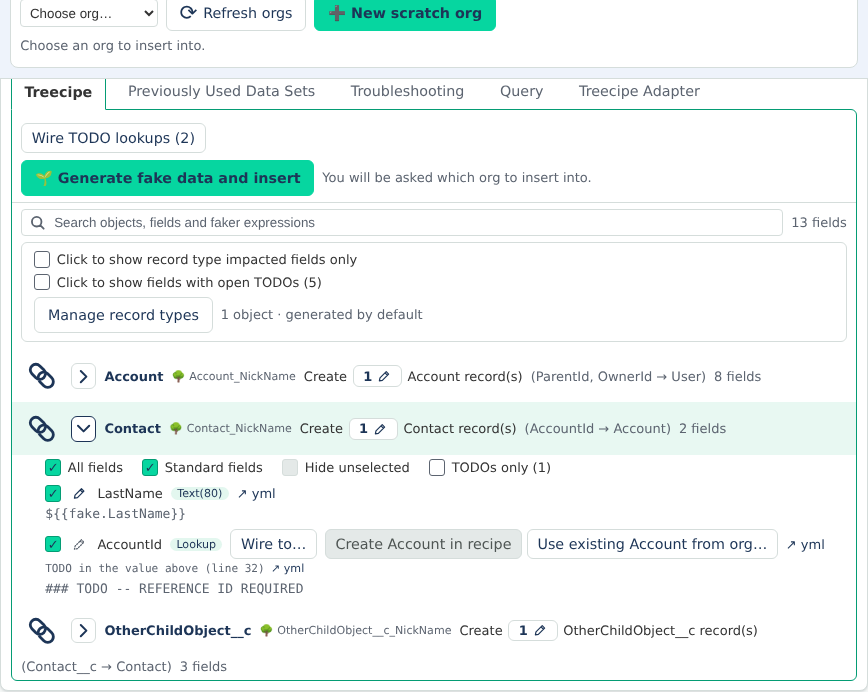
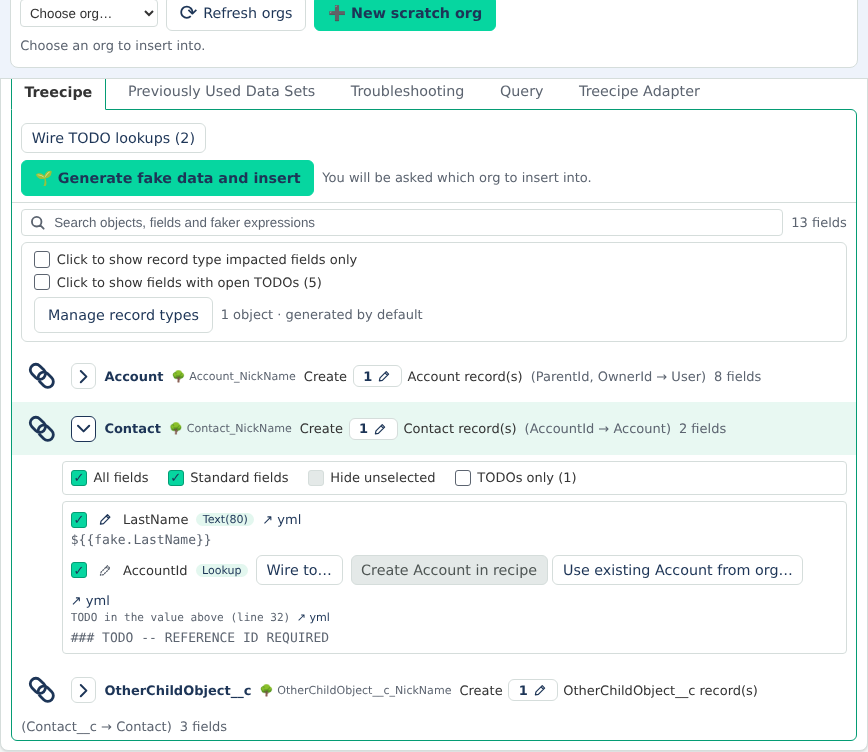
v3.166.0 — Recipe Cockpit: an expanded object's controls and fields sit in two bordered boxes, checkboxes under the ▸ (#494) (#509)
* v3.165.0 — Recipe Cockpit: an expanded object's controls and fields sit in two bordered boxes, checkboxes under the ▸ (#494)

The controls row and a new treeFieldsBox are each bordered and padded, and
their left margin is derived from the object header's padding, chain-link
width and gap, so every checkbox starts where the ▸ does. A box with
nothing visible is hidden by CSS :has(). Layout only.

Claude-Session: https://claude.ai/code/session_01QDhJJDvQty7yS1FQrNPP8r

* Round the unticked-field overlay with its row, and say which box the :has() rule hides (#494)

Review follow-up: the .fieldExcluded overlay kept square corners past the
row's new border-radius, and the CHANGELOG described a hidden controls
row the panel cannot reach today.

Claude-Session: https://claude.ai/code/session_01QDhJJDvQty7yS1FQrNPP8r

---------

diff --git a/src/treecipe/src/RecipeCockpitService/tests/RecipeCockpitFieldBoxes.test.ts b/src/treecipe/src/RecipeCockpitService/tests/RecipeCockpitFieldBoxes.test.ts
@@ -1,0 +1,144 @@
+import * as matchers from 'jest-extended';
+expect.extend(matchers);
+
+import * as path from 'path';
+
+jest.mock('vscode', () => ({
+    window: { createWebviewPanel: jest.fn(), withProgress: jest.fn(), showWarningMessage: jest.fn(), showInputBox: jest.fn() },
+    commands: { executeCommand: jest.fn() },
+    ViewColumn: { One: 1 },
+    ProgressLocation: { Notification: 15 },
+    Uri: { file: (filePath: string) => ({ scheme: 'file', fsPath: filePath }) }
+}), { virtual: true });
+
+import {
+    RecipeCockpitService,
+    IRecipeCockpitRecipeViewModel,
+    RECIPE_COCKPIT_TREE_OBJECT_HEADER_PADDING_REM,
+    RECIPE_COCKPIT_TREE_OBJECT_INCLUDE_WIDTH_REM,
+    RECIPE_COCKPIT_TREE_HEADER_GAP_REM,
+    RECIPE_COCKPIT_TREE_OBJECT_TOGGLE_OFFSET_REM,
+    RECIPE_COCKPIT_TREE_FIELD_BOX_PADDING_REM,
+    RECIPE_COCKPIT_TREE_FIELD_ROW_INSET_REM,
+    RECIPE_COCKPIT_TREE_FIELD_BOX_MARGIN_LEFT
+} from '../RecipeCockpitService';
+import { runPanelScript } from './RecipeCockpitPanelHarness';
+
+/*
+    #494: an expanded object's controls row and its field rows are each a bordered, padded box, and
+    the checkboxes in both start under the object's ▸. The history workspace's Account tree is used:
+    Account writes eight fields, three of its rows carry a TODO.
+*/
+
+const HISTORY_WORKSPACE_ROOT = path.join(__dirname, 'mocks', 'historyWorkspace');
+const HISTORY_GENERATED_RECIPES_PATH = path.join(HISTORY_WORKSPACE_ROOT, 'treecipe', 'GeneratedRecipes');
+const CURRENT_RUN_FOLDER_NAME = 'recipe-2026-09-20T10-00-00';
+
+const loadRecipe = (): IRecipeCockpitRecipeViewModel => RecipeCockpitService.loadRecipeRunByRuns(
+    RecipeCockpitService.findGeneratedRecipeRuns(HISTORY_GENERATED_RECIPES_PATH),
+    HISTORY_WORKSPACE_ROOT,
+    CURRENT_RUN_FOLDER_NAME
+).recipeViewModel;
+
+const shellHtml = () => RecipeCockpitService.buildWebviewShellHtml('testNonce');
+
+// EVERY RULE WRITTEN FOR EXACTLY THIS SELECTOR, JOINED
+const ruleBody = (selector: string): string => {
+    const html = shellHtml();
+    const bodies: string[] = [];
+    let start = html.indexOf('\n    ' + selector + ' {');
+    while (start > -1) {
+        const open = html.indexOf('{', start);
+        bodies.push(html.slice(open + 1, html.indexOf('}', open)));
+        start = html.indexOf('\n    ' + selector + ' {', open);
+    }
+    expect(bodies.length).toBeGreaterThan(0);
+    return bodies.join('\n');
+};
+
+describe('RecipeCockpitService, an object\'s fields and controls in bordered boxes (#494)', () => {
+
+    describe('the panel script', () => {
+
+        type Panel = ReturnType<typeof runPanelScript>;
+
+        const drawRecipe = (): Panel => {
+            const panel = runPanelScript({});
+            panel.postToPanel({ command: 'recipeData', recipe: loadRecipe(), renderSequence: 3 });
+            panel.postToPanel({ command: 'loadPhase', message: '' });
+            panel.expandAllTrees();
+            return panel;
+        };
+
+        const objectNamed = (panel: Panel, objectApiName: string) => panel.objectElements().find((objectElement: any) => panel.objectNameOf(objectElement) === objectApiName);
+
+        it('puts every field row of an expanded object in one fields box, after the controls row', () => {
+
+            const panel = drawRecipe();
+            const account = objectNamed(panel, 'Account');
+            panel.expandObject(account);
+
+            const bodyChildren = panel.objectBodyOf(account).children;
+            const controlsIndex = bodyChildren.findIndex((childElement: any) => childElement.classList.contains('treeFieldSelectAllRow'));
+            const fieldsBoxes = bodyChildren.filter((childElement: any) => childElement.classList.contains('treeFieldsBox'));
+
+            expect(controlsIndex).toBeGreaterThan(-1);
+            expect(fieldsBoxes).toHaveLength(1);
+            expect(bodyChildren.indexOf(fieldsBoxes[0])).toBe(controlsIndex + 1);
+            expect(fieldsBoxes[0].children.length).toBeGreaterThan(0);
+            expect(fieldsBoxes[0].children.every((childElement: any) => childElement.classList.contains('treeField'))).toBeTrue();
+            expect(panel.findAll(panel.objectBodyOf(account), 'treeField')).toEqual(fieldsBoxes[0].children);
+
+        });
+
+        it('builds neither box for an object that was never expanded', () => {
+
+            const panel = drawRecipe();
+            const account = objectNamed(panel, 'Account');
+
+            expect(panel.findAll(panel.objectBodyOf(account), 'treeFieldsBox')).toEqual([]);
+            expect(panel.findAll(panel.objectBodyOf(account), 'treeFieldSelectAllRow')).toEqual([]);
+
+        });
+
+    });
+
+    describe('the stylesheet', () => {
+
+        it('lines a field checkbox up with the object header\'s ▸', () => {
+
+            expect(RECIPE_COCKPIT_TREE_OBJECT_TOGGLE_OFFSET_REM).toBeCloseTo(RECIPE_COCKPIT_TREE_OBJECT_HEADER_PADDING_REM + RECIPE_COCKPIT_TREE_OBJECT_INCLUDE_WIDTH_REM + RECIPE_COCKPIT_TREE_HEADER_GAP_REM, 6);
+
+            expect(ruleBody('.treeObjectHeader')).toContain(`padding: 0.35rem ${RECIPE_COCKPIT_TREE_OBJECT_HEADER_PADDING_REM}rem;`);
+            expect(ruleBody('.treeObjectHeader, .treeFieldHeader')).toContain(`gap: ${RECIPE_COCKPIT_TREE_HEADER_GAP_REM}rem;`);
+            expect(ruleBody('.treeObjectInclude, .treeObjectIncludeSpacer')).toContain(`width: ${RECIPE_COCKPIT_TREE_OBJECT_INCLUDE_WIDTH_REM}rem;`);
+
+            // MARGIN + 1px BORDER + BOX PADDING + ROW INSET LANDS ON THE ▸
+            const marginMatch = /^calc\(([0-9.]+)rem - 1px\)$/.exec(RECIPE_COCKPIT_TREE_FIELD_BOX_MARGIN_LEFT);
+            expect(marginMatch).not.toBeNull();
+            const marginRem = Number((marginMatch as RegExpExecArray)[1]);
+            expect(marginRem + RECIPE_COCKPIT_TREE_FIELD_BOX_PADDING_REM + RECIPE_COCKPIT_TREE_FIELD_ROW_INSET_REM).toBeCloseTo(RECIPE_COCKPIT_TREE_OBJECT_TOGGLE_OFFSET_REM, 6);
+
+            const boxRule = ruleBody('.treeFieldSelectAllRow, .treeFieldsBox');
+            expect(boxRule).toContain(`margin: 0.35rem ${RECIPE_COCKPIT_TREE_OBJECT_HEADER_PADDING_REM}rem 0.35rem ${RECIPE_COCKPIT_TREE_FIELD_BOX_MARGIN_LEFT};`);
+            expect(boxRule).toContain('border: 1px solid var(--sdt-border);');
+            expect(boxRule).toContain('box-sizing: border-box;');
+
+            expect(ruleBody('.treeFieldsBox')).toContain(`padding: ${RECIPE_COCKPIT_TREE_FIELD_BOX_PADDING_REM}rem;`);
+            expect(ruleBody('.treeField.fieldExcluded::after')).toContain('border-radius: inherit;');
+            expect(ruleBody('.treeField')).toContain(`padding: 0.25rem 0.35rem 0.25rem ${RECIPE_COCKPIT_TREE_FIELD_ROW_INSET_REM}rem;`);
+            expect(ruleBody('.treeFieldSelectAllRow')).toContain(`padding: ${RECIPE_COCKPIT_TREE_FIELD_BOX_PADDING_REM + RECIPE_COCKPIT_TREE_FIELD_ROW_INSET_REM}rem;`);
+
+        });
+
+        it('pads both boxes on every side and draws no box with nothing visible in it', () => {
+
+            expect(RECIPE_COCKPIT_TREE_FIELD_BOX_PADDING_REM).toBeGreaterThan(0);
+            expect(RECIPE_COCKPIT_TREE_FIELD_ROW_INSET_REM).toBeGreaterThan(0);
+            expect(shellHtml()).toContain('.treeFieldSelectAllRow:not(:has(> :not(.hidden))), .treeFieldsBox:not(:has(> .treeField:not(.hidden))) { display: none; }');
+
+        });
+
+    });
+
+});

diff --git a/src/treecipe/src/RecipeCockpitService/RecipeCockpitService.ts b/src/treecipe/src/RecipeCockpitService/RecipeCockpitService.ts
@@ -443,6 +443,15 @@ export const RECIPE_COCKPIT_ADD_FRIEND_ACTION_LABEL = '+ Add friend';
 // THE DEEPEST friends: LEVEL A NESTED ROW IS INDENTED FOR (#467); A DEEPER ONE IS DRAWN AT THIS INDENT, SO A CARD NEVER RUNS OFF A NARROW PANEL
 export const RECIPE_COCKPIT_MAX_DRAWN_NESTING_DEPTH = 8;
 export const RECIPE_COCKPIT_NESTING_INDENT_REM = 1.25;
+// AN OBJECT HEADER IS ITS PADDING, THE CHAIN LINK, ONE GAP, THEN THE ▸ (#494): THE FIELD CHECKBOXES START WHERE THE ▸ DOES
+export const RECIPE_COCKPIT_TREE_OBJECT_HEADER_PADDING_REM = 0.6;
+export const RECIPE_COCKPIT_TREE_OBJECT_INCLUDE_WIDTH_REM = 2.6;
+export const RECIPE_COCKPIT_TREE_HEADER_GAP_REM = 0.5;
+export const RECIPE_COCKPIT_TREE_OBJECT_TOGGLE_OFFSET_REM = RECIPE_COCKPIT_TREE_OBJECT_HEADER_PADDING_REM + RECIPE_COCKPIT_TREE_OBJECT_INCLUDE_WIDTH_REM + RECIPE_COCKPIT_TREE_HEADER_GAP_REM;
+// AN OBJECT'S CONTROLS ROW AND ITS FIELDS ARE EACH A BORDERED BOX (#494), PADDED INSIDE, WITH A ROW'S OWN INSET INSIDE THAT
+export const RECIPE_COCKPIT_TREE_FIELD_BOX_PADDING_REM = 0.25;
+export const RECIPE_COCKPIT_TREE_FIELD_ROW_INSET_REM = 0.25;
+export const RECIPE_COCKPIT_TREE_FIELD_BOX_MARGIN_LEFT = `calc(${Math.round(( RECIPE_COCKPIT_TREE_OBJECT_TOGGLE_OFFSET_REM - RECIPE_COCKPIT_TREE_FIELD_BOX_PADDING_REM - RECIPE_COCKPIT_TREE_FIELD_ROW_INSET_REM ) * 100) / 100}rem - 1px)`;
 export const RECIPE_COCKPIT_ADD_FRIEND_CONFIRM_LABEL = 'Add';
 export const RECIPE_COCKPIT_WIRE_LOOKUP_ACTION_LABEL = 'Wire to…';
 // AN EMPTY LOOKUP'S TWO DECISIONS (#421), EACH NAMING THE PARENT BETWEEN ITS PREFIX AND SUFFIX
@@ -19540,7 +19549,7 @@ ${this.buildPaletteCustomProperties()}
         margin: 0.6rem 0;
         overflow: hidden;
     }
-    .treeObjectHeader, .treeFieldHeader { display: flex; flex-wrap: wrap; align-items: center; gap: 0.5rem; }
+    .treeObjectHeader, .treeFieldHeader { display: flex; flex-wrap: wrap; align-items: center; gap: ${RECIPE_COCKPIT_TREE_HEADER_GAP_REM}rem; }
     .treeHeader {
         display: flex;
         flex-wrap: wrap;
@@ -19743,7 +19752,7 @@ ${this.buildPaletteCustomProperties()}
     .troubleshootingSubTabs.movingRight .troubleshootingSubTab::after, .troubleshootingSubTabs.movingLeft .troubleshootingSubTab.selected::after { transform-origin: right; }
     .troubleshootingSubTabs.movingLeft .troubleshootingSubTab::after, .troubleshootingSubTabs.movingRight .troubleshootingSubTab.selected::after { transform-origin: left; }
     .troubleshootingSubTabs.noMotion .troubleshootingSubTab::after { transition: none; }
-    .treeObjectHeader { padding: 0.35rem 0.6rem; align-items: center; }
+    .treeObjectHeader { padding: 0.35rem ${RECIPE_COCKPIT_TREE_OBJECT_HEADER_PADDING_REM}rem; align-items: center; }
     .treeObject { position: relative; }
     .treeObject.treeObjectNested { border-left: 2px solid var(--sdt-border); }
 ${Array.from({ length: RECIPE_COCKPIT_MAX_DRAWN_NESTING_DEPTH }, (unusedDepth, depthIndex) => `    .treeObject.treeObjectDepth${depthIndex + 1} { margin-left: ${( depthIndex + 1 ) * RECIPE_COCKPIT_NESTING_INDENT_REM}rem; }`).join('\n')}
@@ -19758,8 +19767,8 @@ ${Array.from({ length: RECIPE_COCKPIT_MAX_DRAWN_NESTING_DEPTH }, (unusedDepth, d
     .treeObjectInclude, .treeObjectIncludeSpacer {
         box-sizing: border-box;
         flex: none;
-        width: 2.6rem;
-        height: 2.6rem;
+        width: ${RECIPE_COCKPIT_TREE_OBJECT_INCLUDE_WIDTH_REM}rem;
+        height: ${RECIPE_COCKPIT_TREE_OBJECT_INCLUDE_WIDTH_REM}rem;
     }
     .treeObjectInclude { position: relative; z-index: 2; padding: 0.15rem; }
     .treeObjectIncludeSpacer { display: inline-block; }
@@ -19774,6 +19783,7 @@ ${Array.from({ length: RECIPE_COCKPIT_MAX_DRAWN_NESTING_DEPTH }, (unusedDepth, d
         content: '';
         position: absolute;
         inset: 0;
+        border-radius: inherit;
         background-color: var(--sdt-excluded-overlay);
         pointer-events: none;
         z-index: 1;
@@ -19936,8 +19946,16 @@ ${Array.from({ length: RECIPE_COCKPIT_MAX_DRAWN_NESTING_DEPTH }, (unusedDepth, d
     .treeFriendChip { display: inline-flex; align-items: center; gap: 0.25rem; font-size: 0.85em; }
     .treeChipEmoji { flex: none; }
     .treeObjectBody { padding-bottom: 0.25rem; }
-    .treeField { padding: 0.25rem 0.6rem 0.25rem 2.1rem; }
-    .treeFieldSelectAllRow { padding: 0.25rem 0.6rem 0.25rem 2.1rem; display: flex; flex-wrap: wrap; align-items: center; gap: 0.25rem 1.2rem; }
+    .treeFieldSelectAllRow, .treeFieldsBox {
+        box-sizing: border-box;
+        margin: 0.35rem ${RECIPE_COCKPIT_TREE_OBJECT_HEADER_PADDING_REM}rem 0.35rem ${RECIPE_COCKPIT_TREE_FIELD_BOX_MARGIN_LEFT};
+        border: 1px solid var(--sdt-border);
+        border-radius: 4px;
+    }
+    .treeFieldSelectAllRow:not(:has(> :not(.hidden))), .treeFieldsBox:not(:has(> .treeField:not(.hidden))) { display: none; }
+    .treeFieldsBox { padding: ${RECIPE_COCKPIT_TREE_FIELD_BOX_PADDING_REM}rem; }
+    .treeField { padding: 0.25rem 0.35rem 0.25rem ${RECIPE_COCKPIT_TREE_FIELD_ROW_INSET_REM}rem; border-radius: 3px; }
+    .treeFieldSelectAllRow { padding: ${RECIPE_COCKPIT_TREE_FIELD_BOX_PADDING_REM + RECIPE_COCKPIT_TREE_FIELD_ROW_INSET_REM}rem; display: flex; flex-wrap: wrap; align-items: center; gap: 0.25rem 1.2rem; }
     .treeFieldSelectAllCheck { display: inline-flex; align-items: center; gap: 0.4rem; }
     .treeFieldSelectAllLabel { cursor: pointer; }
     .treeFieldSelectAllCheck.disabled .treeFieldSelectAllLabel { color: var(--sdt-muted); cursor: not-allowed; }
@@ -24430,11 +24448,16 @@ ${Object.entries(RECIPE_COCKPIT_VERB_BUTTON_VERBS).map(([className, verb]) => ` 
             if (hasSelectableFields || treeObjectState.todoCount > 0) {
                 treeObjectState.bodyElement.appendChild(buildSelectAllFieldsElement(treeObjectState, hasSelectableFields));
             }
-            treeObjectState.fieldStates.forEach(function (fieldState) {
-                fieldState.rowElement = buildTreeFieldRow(treeObjectState, fieldState);
-                applyTreeFieldVisibility(fieldState);
-                treeObjectState.bodyElement.appendChild(fieldState.rowElement);
-            });
+            // THE FIELDS ARE ONE BORDERED BOX (#494), THEIR CHECKBOXES UNDER THE OBJECT'S ▸
+            if (treeObjectState.fieldStates.length > 0) {
+                const fieldsBoxElement = createElement('div', 'treeFieldsBox');
+                treeObjectState.fieldStates.forEach(function (fieldState) {
+                    fieldState.rowElement = buildTreeFieldRow(treeObjectState, fieldState);
+                    applyTreeFieldVisibility(fieldState);
+                    fieldsBoxElement.appendChild(fieldState.rowElement);
+                });
+                treeObjectState.bodyElement.appendChild(fieldsBoxElement);
+            }
             treeObjectState.isBodyBuilt = true;
             if (drawObjectFieldSelection(treeObjectState)) { drawStructureMatchCount(treeObjectState.treeState); }
         }

diff --git a/src/treecipe/src/RecipeCockpitService/tests/RecipeCockpitExcludeFields.test.ts b/src/treecipe/src/RecipeCockpitService/tests/RecipeCockpitExcludeFields.test.ts
@@ -922,7 +922,8 @@ describe('RecipeCockpitService, unticking fields in the Treecipe tab (#220)', ()
             expect(panel.findAll(panel.objectBodyOf(contact), 'treeFieldAll')).toEqual([]);
             expect(panel.findAll(panel.objectBodyOf(contact), 'treeFieldNone')).toEqual([]);
             expect(panel.objectBodyOf(contact).children[0].classList.contains('treeFieldSelectAllRow')).toBeTrue();
-            expect(panel.objectBodyOf(contact).children[1].classList.contains('treeField')).toBeTrue();
+            expect(panel.objectBodyOf(contact).children[1].classList.contains('treeFieldsBox')).toBeTrue();
+            expect(panel.objectBodyOf(contact).children[1].children[0].classList.contains('treeField')).toBeTrue();
 
         });
 

diff --git a/CLAUDE.md b/CLAUDE.md
@@ -346,6 +346,7 @@ User runs command (Cmd+Shift+P)
 - **Every Recipe Cockpit confirmation is asked INSIDE the panel, and the host keeps the decision** (#349) — where the bullets above say "a host modal" or "the modal", the cockpit now calls `RecipeCockpitService.confirmInPanel(message, { detail, isDestructive? }, ...buttonLabels)`, never `showWarningMessage` with `modal: true` (`RecipeCockpitConfirmDialog.test.ts` scans the source for one, and counts the 21 `confirmInPanel` call sites and the one `confirmInPanelWithCheckbox`). It answers exactly as the modal did — the label chosen or `undefined` — so every executor still plans and checks its guards again AFTER the answer. `confirmInPanelWithCheckbox` (#402, only Deploy fields… calls it) adds `checkboxLabel` to the request; the panel draws one `check` button and its label between the body and the buttons, in the Tab cycle, and answers `isChecked` beside `choice`; it resolves `{chosenLabel, isChecked}`, `isChecked` true only for a box ticked under an offered button, and an `isChecked` that is present and not a boolean is Cancel for either call. It posts `confirmRequest {confirmationId, renderSequence, title, summary, badge?, warnings, sections, buttons, isDestructive}` (#457: `confirmInPanel` takes an `IRecipeCockpitConfirmContent` — a summary and warnings always on screen, a badge for the target org's type, and sections `{title, count?, lines}` folded until opened, their lines built on first open; there is no `detail`. `RecipeCockpitConfirmContent.buildRequestParts` splits line breaks and drops empty sections and blank warnings; the panel's `readConfirmContent` answers Cancel for any part out of shape; `drawConfirmLines` draws each warning and section line as its own bullet (a summary only when it holds more than one statement), a line ending with ":" leading in the indented lines under it as a nested list; a section toggle is in the Tab cycle between the body and the check box; an edited expression the Treecipe Adapter will run is a warning, never only folded; the executor suites read the parts flattened into one `detail` through `RecipeCockpitConfirmContent.flatten`): every string the host's, the id `crypto.randomBytes(16)` hex held in the static `pendingConfirmation` (outside the panel state, since replacing that state is a Cancel). The panel draws it in `#cockpitDialogHost`, a static sibling after `#cockpitBody` (so `buildWebviewShellHtml` still takes only a nonce), with `textContent` only: `role="dialog"`, or `"alertdialog"` when `isDestructive` (an org write or a file overwrite with no undo: insert, deploys, assign, scratch org, retrieve, an overwriting Generate permission set), `aria-modal`, a `tabindex="0"` body that scrolls (`max-height: 60vh`, `white-space: pre-wrap`), the host's buttons (first `primary`) then Cancel, the rest of the cockpit `inert`, focus on Cancel for an alertdialog and the first button otherwise, Tab trapped, Escape Cancel, focus back to the opener. It answers `confirmResponse {confirmationId, choice}`; the router routes it only under the pending id, and `settlePendingConfirmation` spends the id once and reads any `choice` that is not an integer index of an offered button as Cancel. ONE at a time: a newer request answers the open one Cancel. `cancelPendingConfirmation` runs on `ready` (and a confirmation is never replayed), on a new model post, on a failure to draw (not a `runtime` throw), on dispose and on a reopen; with no acknowledged model, or no panel, `confirmInPanel` is Cancel at once, and the panel answers Cancel to a request for another `renderSequence` without drawing it. A HIDDEN panel has no document (`retainContextWhenHidden` is off), so `confirmInPanel` on a panel whose `visible` is `false` reveals it, warns `RECIPE_COCKPIT_CONFIRM_HIDDEN_REFUSAL` and is Cancel, and `onDidChangeViewState` to hidden cancels an open one at once — otherwise the action would wait on a dropped post while holding its run lock. Nothing reloads under an open confirmation: the generate-only run whose reload #349 held in `deferredReloadFocus` (run by `scheduleReloadHeldForConfirmation`) is gone with #375, and both went with it. `routePanelMessage` reads the static `pendingConfirmation` for `confirmResponse` — the one place it reads state outside its arguments; `settlePendingConfirmation` checks the id again. Dialog-only text is not run through `escapeForNotification` (textContent makes it inert; the escapes would show); text that also reaches a notification still is. The backdrop is `--sdt-dialog-backdrop`, composited by the contrast test with the dialog's edge held to 3:1. The palette commands (`ExtensionCommandService`) keep VS Code's modal, and quick picks and input boxes stay VS Code UI. A confirmation's ORG is its own part (#480, `IRecipeCockpitConfirmOrg {alias?, username}` on the content, one line each, never a `Org:` line of the summary; the deploy, retrieve and assignment builders take it instead of a label), drawn on its own `confirmOrg` line: the alias bold in `--sdt-accent`, the username monospace in `--sdt-muted`, then the badge. **Change org…** (`RECIPE_COCKPIT_CONFIRM_CHANGE_ORG_LABEL`, `secondary` compact, in the Tab cycle before the section toggles) is drawn only when the request carries `canChangeOrg`, which `askInPanel` sets only for options with `org` AND `changeOrg {restartMessage, isSandboxOnly}` asked INSIDE a panel action: every routed action, a notification's follow-up included, runs through `runPanelAction` (a test holds `executePanelAction` to its one caller), which gives only the kinds in `RECIPE_COCKPIT_ORG_CHANGE_ACTION_KINDS` an `AsyncLocalStorage` context and runs every other kind under `exit()`, because the first `run()` turns on Node's async context tracking for the whole extension host. Its answer, `confirmResponse {confirmationId, changeOrg: true}`, is Cancel to the action; `settlePendingConfirmation` records the restart on that context, and only once the action has ENDED (its locks released in its own finally) `changeOrgAndRestart` refuses while anything holds the selection (`RECIPE_COCKPIT_CHANGE_ORG_BUSY_REFUSAL`), asks through `promptAndSelectDataOrg` (its `selectionBeforePrompt` lets it replace the selection it was asked over, and only that one; `sandboxOnlyReason` for a write) under `isOrgPromptOpen`, and routes `restartMessage` again through `routePanelMessage` (an `orgIndex` key gets the new selection's index), so the action re-plans and asks again against the new org. Offered on the four retrieves (read), the four deploys, Assign permission sets… and the tree insert (writes); NOT on the Treecipe Adapter's, whose held records and snapshots belong to one org, which show the org part only. The executor suites answer through `tests/RecipeCockpitConfirmationAnswers.ts`, which hands `confirmInPanel` to their `showWarningMessage` mock with `inPanel: true`
 - **The Recipe Cockpit keeps the reader's place in `vscodeApi.setState`, and spends it ONCE** (#222) — `retainContextWhenHidden` stays off, so a hidden tab's document is thrown away and the host replays the model on `ready`; what the READER did lived only in the page. The panel saves NAMES only (run, scroll offset, whether the toolbar's org picker was in use, and per card: opened by the reader, tab, each tab's search as typed (`searchTexts`), Treecipe objects expanded by api name + nickname, open picklist rows, and whether the Record types section is expanded as the optional `isRecordTypesExpanded`; neither the Target Org Manager nor the Treecipes section folds, #355, #364), never a path, value or org. `readSavedPanelPlace` reads it once at script start inside a `try`; `takeRestorablePlace` spends it on the document's FIRST `recipeData` and applies it only when `selectedRunFolderName` matches, and nothing is saved before the place is spent (or the default draw would overwrite it). A LATER model in the same document of the run already on screen (a generate, the tree insert, Add friend reloading it) takes the place on screen instead (`takeSameRunPlace`, built by the same `buildPanelPlace` as a save) BEFORE `resetPanelState` drops it, and restores it the same way (#225); another run, or a model after a failed draw (`renderedSequence` null), starts fresh. Everything that asks the host (a picklist row, the org picker) is restored AFTER `rendered`, beside `focusTree`, which is applied after the restore and so wins; a picker the reader never used still lists no orgs. `savePanelPlace` is skipped while `isRestoringPlace`, so a restore saves once. A restore never posts `loadDataOrgs` by itself. The place is version 2 (#255): a version 1 place is read through `RECIPE_COCKPIT_TREE_TAB_RENAMES` (`structure` → `treecipe`, `dataByOrg` → `compare`, selected tab and search keys), by `normalizePanelPlace` and by the panel's `upgradePlace`, rather than dropped. A place of EITHER version can name a tab since removed (`RECIPE_COCKPIT_REMOVED_TREE_TABS`, `versions` since #265, `compare` and `dataByOrg` since #266, `recordTypes` since #321, applied after the renames on both sides; a card saved on `recordTypes` also opens with the Record types section expanded): its card opens on Treecipe, its search is dropped rather than moved onto another tab, and `expandedVersionRunFolderNames`, `statusFilter` and `expandedDataObjectApiNames` are no longer in the shape, so they are ignored. Removing another tab is adding its name to that list; the place version did not change. A picklist's open state is on the FIELD (`isPicklistExpanded`). Every saved field is type-checked and name-keyed lookups have no prototype; `RECIPE_COCKPIT_PANEL_PLACE_VERSION` is the shape, and a place of another shape is not read. Re-running **Open Recipe Cockpit** on an open panel for the same workspace reloads the run on screen (`loadRecipeRunByRuns` falls back to the newest when it is gone), keeps `dataOrgRequestSequence`, and carries no comparison, since there is none (#266). The same place is ALSO kept in `context.workspaceState` (`RECIPE_COCKPIT_PANEL_PLACE_STATE_KEY`, #230) so it survives a close and a window reload: every `savePanelPlace` posts `savePlace`, routed only for the run of the confirmed-drawn model and written at most once per `RECIPE_COCKPIT_PANEL_PLACE_PERSIST_DELAY` (500 ms) — never only on dispose, since a reload may not run `onDidDispose`, which flushes what is waiting. A panel opened with nothing to carry reads it through `normalizePanelPlace` (field-by-field, run a plain folder NAME, only the shape's fields kept, so no path, value or org is ever written), requests that run, and hands it over as `restorePlace` on the POSTED copy and every replay until that model's `rendered`; a run that is gone or a place that cannot be read is removed and the newest run opens. The panel's own `getState` wins over it. There is NO `WebviewPanelSerializer` and no `onWebviewPanel:` activation event, on purpose: a reload must never load a run or contact an org on its own, and a test asserts both
 - **A tree icon excludes an object and its children from GENERATION, and the recipe file is never written** (#219) — each Treecipe row of a card with a folder draws a `<button class="treeObjectInclude">` as the row's FIRST child, in front of the `▸` (#257); a row with no button (an iteration, or a card with no folder) gets an `aria-hidden` `treeObjectIncludeSpacer` of the same width, so every `▸` and name in a card lines up. Its glyph is the cockpit's first INLINE SVG, a CHAIN LINK: built by the panel script with `document.createElementNS` (one `<path>`, rotated by `RECIPE_COCKPIT_TREE_GLYPH_TRANSFORM`, whose `d` is `RECIPE_COCKPIT_TREE_LINKED_GLYPH_PATH` while included and `RECIPE_COCKPIT_TREE_BROKEN_GLYPH_PATH` once excluded, swapped on every `objectSelection` redraw), never from a markup string, stroked by CSS only from `--sdt-*` (joined `--sdt-accent` included, broken `--sdt-muted` excluded, broken and dashed auto-excluded) and fetching nothing, so the CSP, the nonce-only shell builder and `localResourceRoots: []` are unchanged. That is the rule for any later glyph: `createElementNS` and palette CSS, never an icon font, an image or an interpolated SVG string. The shell's only URL is the SVG namespace string, which the external-asset test allows by name. The state is never colour alone: shape, `aria-pressed`, title and a `treeExclusion` label all say it, and the click never toggles the row. An INCLUDED object named in the cascade's `disabledLookups` (another parent keeps it, its lookup to the excluded one is cut) is drawn IMPACTED (#449): `RECIPE_COCKPIT_TREE_IMPACTED_GLYPH_PATH` (one link joined, one pulled away) in `--sdt-changed`, the label `parent <Parent> excluded`, a title naming the cut lookups, `aria-pressed` still `true` and the icon still a click to exclude; the header count adds `· N impacted` and the Insert order line `(impacted)`. The panel's `indexObjectImpacts` reads it from `disabledLookups` alone (self-lookups and excluded objects skipped), so nothing new is posted or stored, and only the object whose own lookup was cut is marked, never its descendants The CASCADE is the host's (`RecipeCockpitObjectSelection.computeObjectSelection`, which imports nothing): it is the least set reachable from what the exclusion does not touch, so an object stays included if it is not a descendant of an excluded object, is a root, or keeps an included parent, and a self-lookup is never "another parent". Only DIRECT exclusions are stored, in `workspaceState` (`RECIPE_COCKPIT_OBJECT_SELECTION_STATE_KEY`, by tree FOLDER, names checked with `SalesforceApiName`, written with `Object.fromEntries`), so re-including a parent brings back exactly what it cut off. `applyObjectSelections` sets `tree.objectSelection` at post time ONLY when something is excluded, so an untouched card posts and generates exactly as before. Its counts cover the objects the card draws. The panel posts `setObjectIncluded {treeKey, objectApiName, nickname?, included}`, matched against `selectableObjectKeys` (inside `IRecipeCockpitTreeHistoryAllowLists`, so pending/active and reset with the rest). An object `parseRecipeSource` marks `hasIndistinctOccurrences` is never selectable. The host posts `objectSelection` tagged with `renderSequence`, and the panel redraws that card in place. An excluded row is dimmed by the `.excluded` class: an `::after` layer of `--sdt-excluded-overlay` (rgba, the palette's one non-hex token, composited by the contrast test) with `pointer-events: none`, under the icon's `z-index: 2`. The generate button on such a card resolves the copy at the click (`resolveRunFakerFilteredRecipe`) through `RecipeCockpitRecipeWriter.buildFilteredRecipe`, which drops excluded blocks and every later occurrence nested under them, drops lookups to them (by the wrapper's lookups or by a nickname value), moves an orphaned faker-js friend under its closest remaining lower-level parent (#46's rule, levels from the wrapper's `RelationshipDetail.level`) wired by nickname, or to the top, and reads its result back. Anything it refuses is a warning naming the tree, never the whole tree generated. The copy rides as the command's SECOND argument, which `runFakerGenerationByRecipeFile` type-checks and accepts only with a recipe path. It loads the recipe first, runs the copy from a temporary folder outside the workspace, keeps it as `filteredRecipe-*` beside `originalRecipe-*`, and records `excludedObjectApiNames` in `datasetSource.json`. The tree insert leaves an excluded object out too (`listTreeInsertObjectApiNames`), so readiness never checks it and nothing inserts it
+- **An expanded object's controls row and its fields are two bordered boxes, and every checkbox in them starts under the object's ▸** (#494) — `setTreeObjectExpanded` appends field rows to one `treeFieldsBox` after the `treeFieldSelectAllRow`; both boxes take `RECIPE_COCKPIT_TREE_FIELD_BOX_MARGIN_LEFT`, derived from the header's padding, chain-link width and gap constants, so a change to the object header moves the boxes with it. A box with nothing visible is hidden by CSS `:has()`, never by script
 - **A field checkbox leaves a field out of GENERATION and of the tree insert, and the host decides which fields may be unticked** (#220) — each Treecipe field row with a recipe line, on a card with a folder, draws a `<button role="checkbox" class="treeFieldInclude">` with `aria-checked`. An expanded object draws one **All fields** box above its field rows (#410, replacing #220's All / None, which #343 hid): `createButton('check', 'treeFieldInclude treeFieldSelectAll')` with a label, `aria-checked` `true`/`false`/`mixed` counted over the fields with a recipe line that no lock holds (so after "untick all" it reads unticked while locked fields stay ticked), hidden while every field is locked, disabled on an excluded object, not drawn for an iteration or a card `canSelectFields` refuses; a click posts `setAllFieldsIncluded` (`included` is `false` only from `true`) and the box redraws only from the host's answer. A **Standard fields** box beside it (#477) is the same box over the fields `RecipeCockpitService.isStandardFieldApiName` reads as standard (not ending in `__c`, case-insensitive; the panel injects the same suffix): it posts `setAllFieldsIncluded` with `fieldScope: 'standard'` (any other scope is refused) and the host changes only standard fields, never a custom field's tick, and never frees a controlling field whose ticked dependent is custom. Right of it, **Hide unselected** (#483) is the object's own panel-only filter over the rows whose box reads unticked (`isTreeFieldUnticked`, a `parent excluded` lock included): it refilters that object alone, turns itself off when nothing is unticked or the object is excluded, and is the place's optional `hideUnselectedObjectKeys`; the insert confirmation's **Left out, per object** section (`buildInsertLeftOutLines`) lists excluded objects and, per object, every field left out (unticked, or a lookup cut by an excluded parent), the rows Hide unselected hides. The row ends with the object's own **TODOs only** (panel-only, a click refilters that object alone through `filterTreeObjectRows` and never re-runs the card's expand budget, the place's optional `todosOnlyObjectKeys`, disabled with `RECIPE_COCKPIT_NO_OBJECT_TODOS_NOTE` on an object with no TODO), so it is built for an object with a selectable field OR a TODO, and each box hides on its own. The panel posts `setFieldIncluded {treeKey, objectApiName, nickname?, fieldApiName, included}`, matched against `selectableFieldKeys` (inside `IRecipeCockpitTreeHistoryAllowLists`, pending/active like the rest, built from `listSelectableFieldApiNames`: fields with a `lineNumber`), `setAllFieldsIncluded` against `selectableObjectKeys`, and `resetTreeSelection {treeKey}` against `nameableTreeKeys`. The unticked fields are stored beside #219's exclusions under the same key, now `RECIPE_COCKPIT_OBJECT_SELECTION_VERSION` 2 (`excludedFieldApiNamesByFolderName`: folder → object → fields, written with `Object.fromEntries`, every name checked with `SalesforceApiName` on read; a version 1 entry reads as nothing unticked). `buildObjectFieldSelection` is the ONE derivation of what generation leaves out and what is LOCKED: `parent excluded` (a lookup the object cascade disabled — left out by the cascade, drawn unticked), `record-type sections depend on it` (`RecordTypeId` while `hasRecordTypeSections`, which `parseRecipeSource` reads through `RecipeCockpitRecipeWriter.hasRecordTypeSections`), and `controls <Dependent>` (a controlling field while a dependent is ticked, found to a fixed point so a chain holds). A lock outvotes what is stored, the handler re-derives before it writes (a forged untick of a locked field, or of a field of an excluded object, writes nothing), and the panel only draws `tree.fieldSelection`, which is set only on a card with a field unticked or locked and lists only those objects. `buildFilteredRecipe` takes `excludedFieldApiNamesByObject` and drops each field's own line and continuation lines from every kept occurrence (and a `fields:` line left empty, which loads as `null`); `extractObjectBlock`, `listCreateBlockFieldApiNames` and the one-scan batch take the same list, so the parent picker reads only ticked fields, and `buildCreateReadiness` refuses an unticked field `findRequiredFieldApiNames` says the org requires. `datasetSource.json` records `excludedFieldApiNamesByObject`. A selection change re-checks only that folder's insert targets (`refreshDataOrgReadinessForFolder`) against the selection's answered org type and the describe cache, connecting lazily only on a cache miss and never re-querying the Organization row; a stale answer is dropped by `dataOrgRequestSequence`, and the panel merges readiness by key. A required lookup is never an unticked-required reason (the insert fills it), and a cut with every field unticked drops its `fields:` line too. **Reset selection** (header, shown only while the card leaves something out) clears the folder's objects and fields after a host modal
 - **A count box sets how many records an object gets, and the recipe file is never written** (#255) — each Treecipe object row on a card with a folder, not an iteration and not `hasIndistinctOccurrences`, whose first occurrence has exactly one plain whole-number `count:` (`RecipeCockpitRecipeWriter.readObjectCount`, carried on the object model as `recordCount`, with `countParentObjectApiName` for a nested friend), reads as a sentence (#438): `Create`, a `secondary` compact `treeRecordCountButton` holding the count and the pencil glyph, then `<Object> records per <Parent>` for a faker-js friend (records per parent record, which is what `count` means there) or `<Object> records` otherwise (`record` for a count of 1), the button's `aria-label` the whole sentence, marked `changed` with a `recipe: N` tooltip while the count differs from the recipe's, disabled while the object is excluded. A click swaps in an `input.treeRecordCountInput` built on the first open (`ensureRecordCountEditor`); Enter or blur commits once, Escape cancels, and the editor is closed before focus moves so its blur cannot commit again; a selection redraw skips a row whose count and exclusion it already drew. The panel accepts only `/^[1-9][0-9]*$/` that is a safe integer and posts `setObjectCount {treeKey, objectApiName, nickname?, count}`; the router holds the NUMBER to `RecipeCockpitRecipeWriter.isRecordCount` again, matches `selectableObjectKeys`, the drawn nickname and a `recordCount`, and refuses an excluded object. Counts are stored beside the #219/#220 selection under the same key, now `RECIPE_COCKPIT_OBJECT_SELECTION_VERSION` 3 (`objectCountsByFolderName`: folder → object → count, written with `Object.fromEntries`, names checked with `SalesforceApiName` on read; a version 1 or 2 entry reads as no counts), and a count equal to the recipe's own is NOT stored, so `tree.objectCounts` is set only when one differs and an untouched card posts and generates exactly as before. An excluded object keeps its stored count (`buildTreeObjectCounts`) but `listObjectCountsByObject` leaves it out, so re-including it brings the count back. `buildFilteredRecipe`'s `objectCountsByObject` writes each count on the FIRST occurrence's `count:` line at that occurrence's own depth (a moved friend's at its new depth), reads the copy back with exactly those counts (`appliedCounts`), and a count already equal changes nothing. The generate button's copy and `datasetSource.json` carry `objectCountsByObject` only when non-empty. Reset selection clears the folder's counts too.
 - **Every occurrence of an object written more than once keeps its OWN settings, and a card draws it under the occurrence that holds it** (#467) — an iteration (a self-lookup's copy, a friend added under it, a #194 record type block) is placed by `RecipeCockpitService.placeTreeIterations`: right under the occurrence whose `friends:` block holds it, after what is listed under that one, in file order, with `nestingDepth` on its tree entry (the panel's `treeObjectDepth<n>` indent, capped at `RECIPE_COCKPIT_MAX_DRAWN_NESTING_DEPTH`); a block sharing its first block's parent, or one whose parent the card cannot name, follows its first occurrence at its depth; first occurrences keep insert order. The self-lookup's button reads `+ Add friend` (`RECIPE_COCKPIT_ADD_FRIEND_ACTION_LABEL`). The host sees each occurrence through `listTreeOccurrences` (the first, then each iteration the card lists, built by `buildIterationObjectViewModel` with that occurrence's lines, values and `recordCount`), and `readOccurrenceNickname` is the ONE rule for its key: every occurrence of an object with iterations has its nickname, an object written once none, so a card without iterations posts and stores exactly what it did. Unticked fields, counts and rules switches are stored under `RecipeCockpitRecipeWriter.buildOccurrenceKey` (`"<Object>\n<Nickname>"`) beside object keys, version unchanged; an occurrence reads its own key, else its object's (`pickStoredForOccurrence`), so an untick or rules switch from before #467 applies to every copy until `prepareOccurrenceSelectionKey` splits it (`splitObjectWideEntry`) on the first change of one copy; a COUNT from before #467 was always the first occurrence's and stays so (`buildTreeObjectCounts` reads an iteration's own key only, the split copies it to the first only). `readTreeSelections` holds stored keys to `SalesforceApiName.isOccurrenceKey` -- `isApiName` there dropped every occurrence key on the next read. `readOccurrenceNickname` gives no nickname to an object whose nicknames are not all api names (a hand-edited recipe), so it keeps object keys. `listTreeOccurrences` is cached per tree and objects map (a load's builders share it) and takes `onlyObjectApiName` for a message about one object; never rebuild it per field or per object. Every per-occurrence entry the host posts (`fieldSelection.objects`, `objectCounts`, `fixedValues`, `validationRulesOff`) carries `nickname` exactly then, and the panel looks each up by `occurrenceNicknameOf`, the same rule. A posted nickname must be one of the object's occurrences the card on screen lists (`resolvePostedOccurrence`, `findDrawnOccurrenceField`), else nothing is written. `buildFilteredRecipe` takes occurrence keys in every object-keyed map (`isOccurrenceKey`; `SalesforceApiName.isOccurrenceKey` for Run Faker's check) and picks an occurrence's own entry over its object's (`pickForOccurrence`). A pin of one occurrence (`pinField`'s nickname) is a fixed-values entry with `scopeNickname` and exactly that recorded occurrence; it carves the occurrence out of a pin of every occurrence (`upsertEntry`), its Clear restores only it (`restorePinnedField`'s `isScopedToRecordedOccurrences`), a wider Clear skips occurrences with their own pin, and `listValuesByObject` lists every pin under the occurrence key of each occurrence it holds. A pin from before #467 still holds and clears every occurrence it recorded; #421's org-record pin still writes every occurrence. The insert's readiness reads every field ANY copy unticks (`listExcludedFieldApiNamesByObject`), a deploy leaves out only what EVERY copy unticks, and the Treecipe Adapter reads the first occurrence's edit. A picklist's value tiles (#465) post the row's nickname on `loadPicklistValues` and `setPicklistValueChoice`, so they read and write one occurrence like the edit button. Exclusion stays per object

diff --git a/CHANGELOG.md b/CHANGELOG.md
@@ -1,5 +1,14 @@
 # Change Log
 
+## [3.166.0] - Recipe Cockpit: an expanded object's controls and fields sit in two bordered boxes, checkboxes under the ▸
+
+[#494](https://github.com/jdschleicher/Salesforce-Data-Treecipe/issues/494). An expanded object's controls row and field rows ran straight into the next object's header, so nothing showed where one object's fields ended, and the field checkboxes were indented a fixed 2.1rem, about 1.6rem left of the object's ▸.
+
+- **Two boxes.** The controls row (All fields · Standard fields · Hide unselected · TODOs only) is a bordered box, and every field row of the object now sits in a second one, `treeFieldsBox`. Both are drawn in `--sdt-border`, padded on every side, with space between them and around them, so no checkbox, row hover or excluded-field overlay touches an edge. A fields box whose rows are all hidden by a search or filter is not drawn (`:has()`); the same rule guards the controls row, which today always holds TODOs only. The unticked-field overlay takes the row's rounded corners.
+- **Checkboxes under the ▸.** The header's padding, the chain-link width and the header gap are now named constants (`RECIPE_COCKPIT_TREE_OBJECT_HEADER_PADDING_REM`, `RECIPE_COCKPIT_TREE_OBJECT_INCLUDE_WIDTH_REM`, `RECIPE_COCKPIT_TREE_HEADER_GAP_REM`), and the boxes' margin is derived from them (`RECIPE_COCKPIT_TREE_FIELD_BOX_MARGIN_LEFT`), so each field's checkbox and the All fields box start where the ▸ does, at every nesting depth, on an iteration and on the ungrouped card.
+- **Layout only.** No message, model or place field changed, and no colour pair was added.
+- **Tests.** `RecipeCockpitFieldBoxes.test.ts` (the fields box holds every field row, after the controls row; a never-expanded object builds neither box; the stylesheet's offsets add up to the ▸'s, the padding and border rules, the empty-box rule); `RecipeCockpitExcludeFields.test.ts` reads a field row inside the box.
+
 ## [3.165.0] - Recipe Cockpit: the Treecipe tab's filters and "Manage record types" sit in one tile under the search, and a count says "record(s)"
 
 [#490](https://github.com/jdschleicher/Salesforce-Data-Treecipe/issues/490). The Treecipe tab squeezed its two filter checks into the search row, the Record types section opened from a ▸ header that did not read as clickable, and an object's count said "record" or "records" depending on the number.
